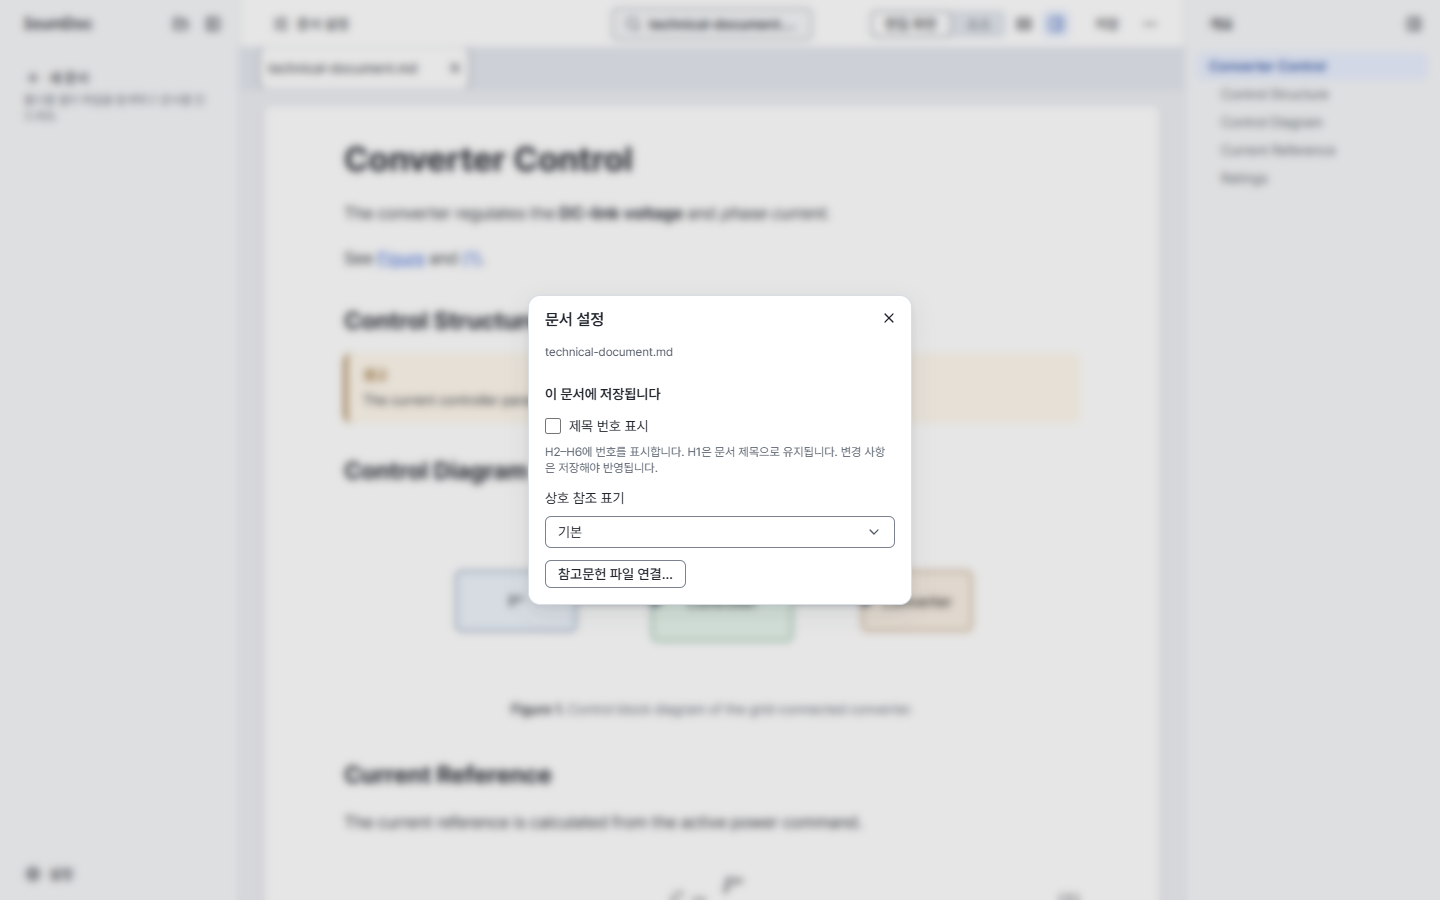
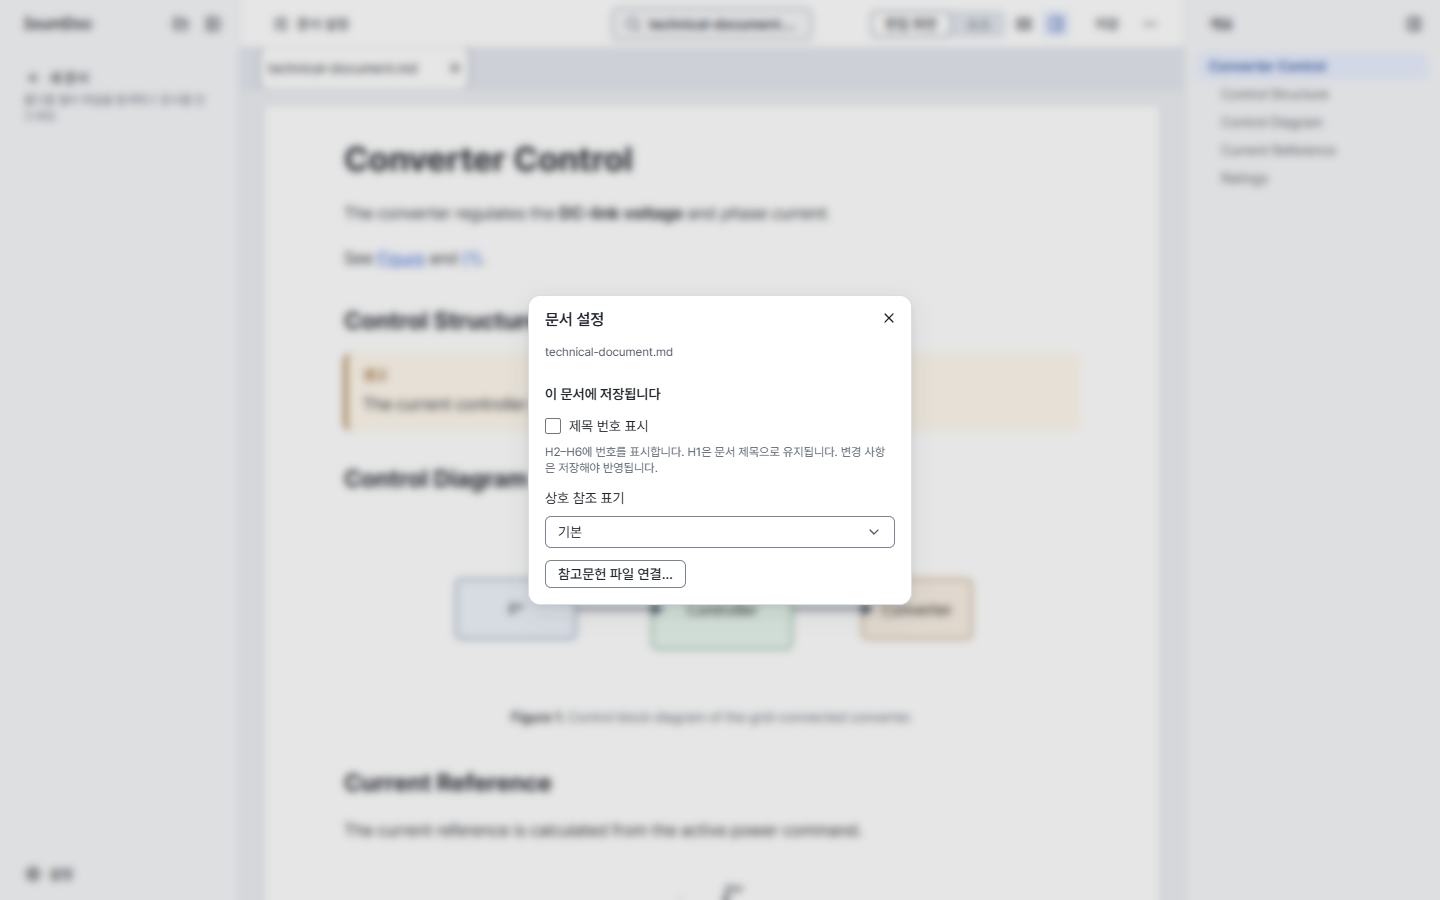
docs(editor): record document settings integration verification
Refresh 1440px and 390px product captures after master integration and record the focused checks and independently reproduced master Settings handoff failure.

AI-Agent: Codex
AI-Model: openai/gpt-6.1-sol

diff --git a/docs/design/editor-layout-rules-v1.md b/docs/design/editor-layout-rules-v1.md
@@ -1,6 +1,7 @@
 # Editor Layout Rules v1
 
 - Status: Implemented
+- Document settings verification: 2026-10-27 (#554: existing document operations and device width preference; [integration, checks and captures](editor-ux-shell-v1.md#document-settings-placement-554)).
 - Docking verification: 2026-10-26 (#552: 1424px Standard-column boundary, session-only docked choice, targeted browser checks and [same-state captures](editor-ux-shell-v1.md#outline-docking-verification-552)).
 - Table handle verification: 2026-10-26 (#517: unchanged 28px/6px hit geometry with light line icons; bilingual layout-rules, table-authoring narrow-scroll/keyboard/touch checks and [same-state comparison](table-interaction-v1.md#light-handle-verification-and-comparison)).
 - Last verified: 2026-10-26 (#515 P1/P3 owner review correction: contrast-qualified tab edges, 600 list cue and stable Outline row extent; targeted regressions and [1440/390px comparison](editor-visual-language-v1.md#selection-cue-review-correction-515)).
@@ -63,5 +64,5 @@
 - Tables and formulas scroll inside their block, with a thin scrollbar where the platform draws one and a fade (`--size-overflow-fade`) at an edge with more content; the fade follows the scroll position and is absent without overflow. Source soft-wraps Markdown lines, including unbroken text, within the available width without horizontal scrolling (#476). Each source line has one gutter number; continuation rows align with its text, leaving the number gutter clear. Wrapping is display-only and preserves source text/Copy. Overlay contents may scroll if viewport height demands it. Never hide overflow on the whole document or restyle KaTeX internals to make measurements pass.
 - Overlay positioning respects the viewport and sticky header. Required controls must exist and stay reachable.
 - `new-document.browser.js` checks the empty surface at 1440 and 768px, first hint and insert visibility without hover, New focus, immediate typing/undo, blank-paper click, actual empty Save/Source and real-file Save → Reload. Cancel and rejected New return to the opening control without creating a file.
-- `layout-rules.browser.js` measures real scratch documents at 1440, 1424, 1423, 1280, 1279, 1025, 1024, 768, 705 and 704px with sidebar open/collapsed and a folder shown. No-element results fail. It checks the sidebar and docked panel widths against their variables, 16px sidebar icons and top-level tree icon/text alignment, the overlay at 1423, 1280, 1279, 1024, 768 and 704px (document width unchanged, no sideways scroll, top at the header's bottom, Save, File actions and the Outline toggle uncovered, Escape returns focus to the Outline toggle) and that hiding the docked panel widens the centering area by its width. Boundary checks preserve the 928px Standard column at 1424px and a single-row TopBar at 1280–1424px, retain explicit docked open/closed choices through resize, keep overlay dismissal separate, and reset the choice on reload. At 414px the sidebar has started closed after crossing 640px. At 414 and 375px the opened sidebar covers the viewport and the closed one leaves the main column at the left edge; with it closed, every TopBar control is inside the viewport with no sideways page scroll, in reading order, 4px apart within a group and at least 12px between groups; collapsed sidebar icon/label alignment is explicitly not applicable. At 1920px it toggles Wide document in TopBar and checks the column against `--layout-content-width-wide` (capped by the area), centering, the shared axis, the text inset, unmoved TopBar controls and the preference surviving a reload without changing document content/dirty state. At 375px Escape inside the full-screen sidebar closes it and focuses the TopBar's Expand sidebar, and opening it focuses Collapse sidebar. It also checks document settings dialog/control bounds and Escape focus return at 1920/1440/1280/1024/768/390/375px. The dialog reuses the shared popup viewport cap, 16px padding and form control tokens, independently of Sidebar width.
+- `layout-rules.browser.js` measures real scratch documents at 1440, 1424, 1423, 1280, 1279, 1025, 1024, 768, 705 and 704px with sidebar open/collapsed and a folder shown. No-element results fail. It checks the sidebar and docked panel widths against their variables, 16px sidebar icons and top-level tree icon/text alignment, the overlay at 1423, 1280, 1279, 1024, 768 and 704px (document width unchanged, no sideways scroll, top at the header's bottom, Save, File actions and the Outline toggle uncovered, Escape returns focus to the Outline toggle) and that hiding the docked panel widens the centering area by its width. Boundary checks preserve the 928px Standard column at 1424px and a single-row TopBar at 1280–1424px, retain explicit docked open/closed choices through resize, keep overlay dismissal separate, and reset the choice on reload. At 414px the sidebar has started closed after crossing 640px. At 414 and 375px the opened sidebar covers the viewport and the closed one leaves the main column at the left edge; with it closed, every TopBar control is inside the viewport with no sideways page scroll, in reading order, 4px apart within a group and at least 12px between groups; collapsed sidebar icon/label alignment is explicitly not applicable. At 1920px it toggles Wide document in TopBar and checks the column against `--layout-content-width-wide` (capped by the area), centering, the shared axis, the text inset, unmoved TopBar controls and the preference surviving a reload without changing document content/dirty state. At 375px Escape inside the full-screen sidebar closes it and focuses the TopBar's Expand sidebar, and opening it focuses Collapse sidebar. It also checks document settings dialog/control bounds and Escape focus return at 1920/1440/1280/1024/768/390/375px. The dialog reuses the shared popup viewport cap, 16px padding and form control tokens, independently of Sidebar width. An additional English/Korean matrix at 1280/1423/1424/1440px covers both Sidebar states and both Outline states, asserting 48px height, centered placement, 160px minimum command button, visible controls without overlap and folder/shortcut/filename reduction order.
 - No change to Core/CLI, document semantics, save API, Tiptap state architecture or backend persistence.

diff --git a/docs/design/editor-ux-shell-v1.md b/docs/design/editor-ux-shell-v1.md
@@ -1,6 +1,7 @@
 # Editor UX Shell v1
 
 - Status: Implemented
+- Document settings verification: 2026-10-27 (#554: existing document operations and device width preference; [integration, checks and captures](#document-settings-placement-554)).
 - New-document entry verification: 2026-10-27 (#553: Editor 291 tests, workspace typecheck/build/docs; new-document, command-center, folder-navigation, editor-shell, ui-language, layout-rules and quiet-document; [behavior and visual comparison](#new-document-entry-553)).
 - Folder refresh verification: 2026-10-26 (#494: Editor 291 tests, typecheck/build, folder-tree failure guard and folder-navigation/image-assets/command-center/folder-memory/layout-rules/quiet-document; actual menu comparison below).
 - Menu verification: 2026-10-26 (#516: action icons/danger tokens, adjacent block movement/Undo/Save→Reload, title/endnote/draft/boundary restrictions, conversions and slash editor focus; [contract and evidence](#unified-action-menus-516)).
@@ -39,6 +40,22 @@ focus handoff. A bibliography connection releases document settings before openi
 dialog, returning to the original opener after selection or dismissal. No document operation,
 file format or device preference storage changes.
 
+Local verification: Editor **295/295**, workspace typecheck, Editor build, docs check and
+whitespace check passed. Fourteen targeted browser scenarios passed across the integrated run
+and focused follow-ups: editor-shell, layout-rules, quiet-document, source-view-pending,
+bibliography-connection, cross-reference, outline, folder-navigation, visual-states, open-files,
+ui-language, bibliography, citation-authoring and new-document. The shell scenario independently
+checks both document-settings command aliases and focus return. The layout scenario checks 32
+English/Korean combinations of 1280/1423/1424/1440px, expanded/collapsed Sidebar and open/closed
+Outline (docked from 1424px, overlay below it): 48px TopBar, centered button of at least 160px,
+visible controls without overlap, and the folder/shortcut/filename reduction order.
+
+Known separate failure: `command-center` times out opening app Settings after its synthetic IME
+sequence (`run('settings')`, line 413). It reproduced identically on clean master
+`34436c7cf0240fd2ebf0dcdaa74b3c5a226f7066` with the same checkout, origin and persistent profile.
+No timeout, immediate assertion or product behavior was weakened here. The owner assigned its
+fix separately; PR CI remains the final integration check. Edge and packaged Desktop run in CI.
+
 Same-state manual comparison (Korean UI, the default technical document, clean loaded state):
 
 | Width | Before: Sidebar Display | After: Document settings | After: shell |
@@ -47,6 +64,7 @@ Same-state manual comparison (Korean UI, the default technical document, clean l
 | 390px | [Before](assets/document-settings-554/before-390.png) | [After](assets/document-settings-554/after-390.png) | [Shell](assets/document-settings-554/after-shell-390.png) |
 
 Captures were made through `pnpm browser:test` using this checkout's persistent Chrome profile.
+Before uses `ff37a32`; After includes master integration through `a414cb5` (#553/#555/#559/#552/#568/#565), so unrelated merged color and document-type changes are not attributed to #554.
 At phone width the former full-screen Sidebar is replaced by the shared viewport-capped modal;
 the underlying document remains in place. These images support manual layout review; automated
 checks separately assert geometry, operations, availability and focus. Historical Display captures

diff --git a/docs/test/README.md b/docs/test/README.md
@@ -214,7 +214,7 @@ No broad `nodeReset` guard or #502 resolution is claimed.
 
 `folder-memory`는 열린 폴더 기억과 함께 root 섹션 접힘의 Reload/현재 문서 복원, Close/reopen, 복원만으로 쓰기 0회, 유효하지 않은 기록의 다음 사용자 쓰기 정리, 복원 중 사용자 접기·펼치기·Close 경합, 두 탭의 마지막 동작과 reveal 기억을 검증한다(#425, #370). 하위 펼침과 listing은 저장하지 않는다.
 
-`editor-shell`은 문서 설정 대화상자의 키보드 진입·닫기·포커스 복귀와 편집기/selection/history/draft 보존, 접힌 탐색 rail, File actions → Reload 취소를 검증한다. `folder-navigation`은 설정 열기와 접기 전후 트리 펼침·스크롤·키보드 위치를, `outline`은 문서 설정의 제목 번호 변경·Undo/Redo·실제 Save/Reload를 검증한다. `layout-rules`는 TopBar 넓게 보기의 문서/dirty 상태 불변과 기기별 유지, 1920/1440/1280/1024/768/390/375px 문서 설정 dialog 경계와 포커스 복귀를 확인한다. 문서 없음·저장 진행·Source에서 문서 설정 진입 제한은 기존 시나리오에서 확인한다. `command-center`는 양 언어 별칭과 modal 전환을, `bibliography-connection`은 기존 연결·Save/Reload와 원래 설정 진입점으로의 포커스 복귀를 검증한다. `quiet-document --screenshots`는 기존 동일 상태 비교와 문서 설정을 함께 촬영한다.
+`editor-shell`은 문서 설정 대화상자의 TopBar/명령센터 양 언어 별칭·키보드 진입·닫기·포커스 복귀와 편집기/selection/history/draft 보존, 접힌 탐색 rail, File actions → Reload 취소를 검증한다. `folder-navigation`은 설정 열기와 접기 전후 트리 펼침·스크롤·키보드 위치를, `outline`은 문서 설정의 제목 번호 변경·Undo/Redo·실제 Save/Reload를 검증한다. `layout-rules`는 TopBar 넓게 보기의 문서/dirty 상태 불변과 기기별 유지, 1920/1440/1280/1024/768/390/375px 문서 설정 dialog 경계와 포커스 복귀를 확인한다. 문서 없음·저장 진행·Source에서 문서 설정 진입 제한은 기존 시나리오에서 확인한다. `command-center`는 양 언어 별칭과 modal 전환을, `bibliography-connection`은 기존 연결·Save/Reload와 원래 설정 진입점으로의 포커스 복귀를 검증한다. `quiet-document --screenshots`는 기존 동일 상태 비교와 문서 설정을 함께 촬영한다.
 
 `visual-states`는 연 파일 행의 `aria-current="page"`를 기다린 뒤 파일·Outline의 현재 표식과 hover·keyboard focus·geometry를 측정한다. 파일 GET이 진행 중일 때 이전 문서의 Outline 표식은 남아 있을 수 있으므로 새 파일의 준비 신호가 아니다. 현재 상태를 기다린 뒤에도 비색상 표식의 실제 CSS와 너비를 별도로 검사한다.
 

diff --git a/docs/design/editor-visual-language-v1.md b/docs/design/editor-visual-language-v1.md
@@ -1,6 +1,7 @@
 # Editor Visual Language — Quiet Document
 
 - Status: Implemented
+- Document settings verification: 2026-10-27 (#554: existing document operations and device width preference; [integration, checks and captures](editor-ux-shell-v1.md#document-settings-placement-554)).
 - Type-scale verification: 2026-10-27 ([#558](https://github.com/ieumbird/ieumdoc/issues/558): Editor tests, typecheck/build, layout-rules and quiet-document pass; 1440px 15/16px manual comparison remains pending because the Windows account failure counter reached the owner stop threshold of 6).
 - Accent verification: 2026-10-27 (#559: six local accent presets, shared interaction/selection/number colors and neutral information states; [contract and contrast results](#single-accent-presets-559)).
 - Table handle verification: 2026-10-26 (#517: B2 transparent-rest line handles with S4 neutral current/open states, accessible address names/tooltips, keyboard discovery and touch fallback; [verification and actual Before/After](table-interaction-v1.md#light-handle-verification-and-comparison)).

diff --git a/docs/design/heading-numbering-v1.md b/docs/design/heading-numbering-v1.md
@@ -1,6 +1,7 @@
 # Heading numbering v1
 
 - Status: Implemented
+- Document settings verification: 2026-10-27 (#554: existing document operations and device width preference; [integration, checks and captures](editor-ux-shell-v1.md#document-settings-placement-554)).
 - Accent verification: 2026-10-27 (#559: generated heading/Outline numbers share the local accent; all presets checked by the token contrast and existing Outline browser tests).
 - Body-heading authoring verification: 2026-10-26 (#472 Editor unit/browser checks; Core/CLI and numbering behavior unchanged). [Verification details](document-editing-v1.md).
 - Last verified: 2026-10-26 (#511 generated-number color: Editor tests, typecheck/build, Outline/layout-rules/quiet-document/visual-states browser checks and 1440px manual comparison).

diff --git a/docs/design/citations-v1.md b/docs/design/citations-v1.md
@@ -1,6 +1,7 @@
 # Citations v1
 
 - Status: Implemented
+- Document settings verification: 2026-10-27 (#554: existing document operations and device width preference; [integration, checks and captures](editor-ux-shell-v1.md#document-settings-placement-554)).
 - Nested authoring verification: 2026-10-24 (#377: Editor slash tests and `citation-authoring` menu/insertion/Save → Reload on lists, quotes, simple admonitions, endnote definitions, cells, Figure captions and headings, including a citation-only list item).
 - Last verified: 2026-10-27 (#463: Editor-styled citation key candidates; verification below).
 - Previous verification: 2026-10-26 (#473: conditional References and shared Display/command-center connections; verification below).
